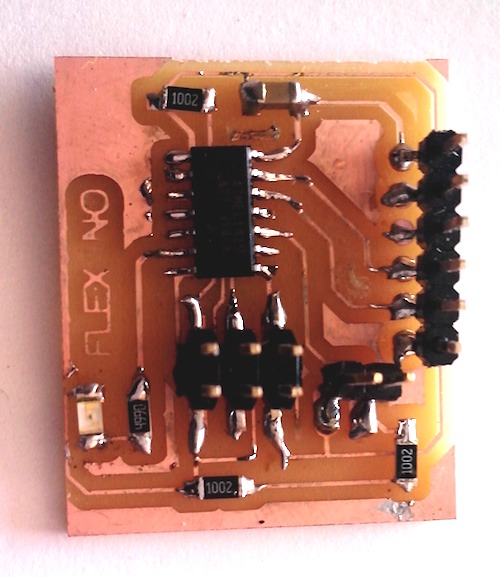
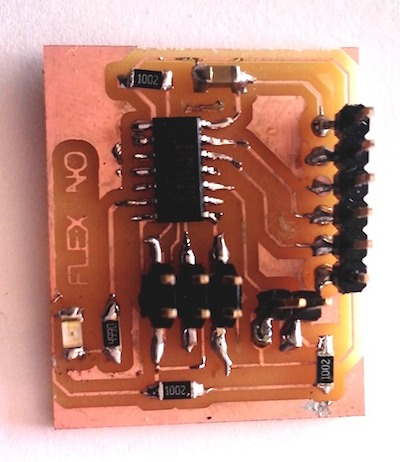
aggiorna sito

diff --git a/weeks/2015/04/15/class11.html b/weeks/2015/04/15/class11.html
@@ -7,7 +7,7 @@
   <meta name="viewport" content="width=device-width, initial-scale=1">
 
   <title>output devices (Apr 15)</title>
-  <meta name="description" content="This week challenge is to create and program a board that measures something. I was intrigued by the step response sensors, as they are really general purpos...">
+  <meta name="description" content="The assignment for this week was to add a output device to a microcontroller board I have already designed, and program it to do something. ">
 
   <link rel="stylesheet" href=" /css/main.css">
   <link rel="canonical" href=" /weeks/2015/04/15/class11.html">
@@ -69,25 +69,26 @@
   </header>
 
   <article class="post-content">
-    <p>This week challenge is to create and program a board that measures something. I was intrigued by the step response sensors, as they are really general purpose and allow to measure a lot of different things.</p>
+    <p>The assignment for this week was to add a output device to a microcontroller board I have already designed, and program it to do something. </p>
 
-<p>For my final project I will also need to measure the flex of the foot,  and this can be done using the step-response mechanism. </p>
+<p>As my interests are about wearable electronics, I wanted to investigate something with it and to advance some of my project design.</p>
 
 <h1 id="led-array">Led Array</h1>
-<p>A simple flex sensor 2.2” in length. As the sensor is flexed, the resistance across the sensor increases. The resistance of the flex sensor changes when the metal pads are on the outside of the bend (text on inside of bend).</p>
 
-<p><img src="/images/flex-sensor.jpeg" alt="My helpful..screenshot" /></p>
+<p>I used the technique of CharliePlexing to make a led array using few pins. This technique  in few words allows to control up to n*(n-1) leds with n pins. When using more than 2 pins it does so by switching one of the pins as input rather than output, thus disconnecting the pin from the circuit.</p>
 
 <h1 id="wearable-light">wearable light</h1>
-<p><img src="/images/FLEXINO.jpg" alt="My helpful..screenshot" /></p>
 
 <p>#</p>
 
 <h2 id="source-files">Source Files</h2>
-<p><a href="/files/week10/flexino-etching.png">flexino Board</a>
-<a href="/files/week10/flexino-cutting.png">flexino Board</a>
-<a href="/files/week10/flexsensor.ino"> code </a>
-<a href="/files/week10/flexsensor.ino">flexino code</a></p>
+<p><a href="/files/week11/ledy-etching.png">Ledy Board</a><br /></p>
+
+<p><a href="/files/week11/ledy-cutting.png">Ledy Board</a><br /></p>
+
+<p><a href="/files/week11/ledy.ino"> code </a><br /></p>
+
+<p><a href="/files/week11/ledy.ino">ledy code</a><br /></p>
 
 
   </article>
